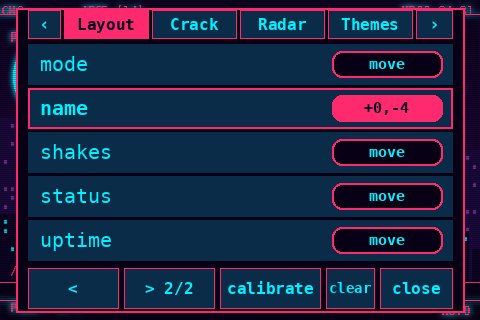
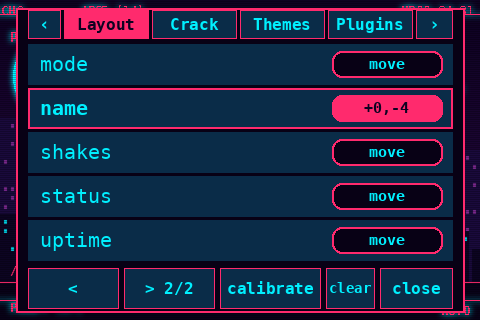
Remove the radar (2.9.0)
The network-ranking tab, on_wifi_update hook, api/radar and the editor's
Radar tab are gone, along with their tests and screenshot. It never
touched what got attacked, but wasn't worth the tab space.

Changed region(s): [[0.6875, 0.0625, 0.8438, 0.125], [0.5312, 0.0312, 0.6562, 0.0938]]

diff --git a/theme_manager.py b/theme_manager.py
@@ -749,33 +749,6 @@ def _crack_summary_text(summary):
     return "%d cracked of %d handshakes%s" % (summary["cracked"], summary["total"], junk)
 
 
-# ---------------------------------------------------------------- radar (display-only ranking, never touches attacks)
-RADAR_MAX = 60      # networks kept, best first
-
-
-def _ap_score(ap, captured):
-    """A rough 'worth attacking' score from what pwnagotchi already knows about an access point: a closer signal and
-    more clients mean more chances at a handshake; one already captured, or WPA3-only, counts against it. Display
-    only: nothing here changes what bettercap actually attacks."""
-    rssi = ap.get("rssi")
-    sig = max(0.0, min(1.0, (rssi + 90) / 60.0)) if isinstance(rssi, (int, float)) else 0.3
-    score = sig * 40 + min(len(ap.get("clients") or []), 5) * 12
-    if (ap.get("mac") or "").lower().replace(":", "") in captured:
-        score -= 60
-    if "WPA3" in (ap.get("encryption") or "").upper():
-        score -= 15
-    return round(score, 1)
-
-
-def _radar_summary_text(rows, age):
-    if not rows:
-        return "no networks seen yet"
-    if age is not None and age > 120:
-        return "%d networks (scan is %d minutes old)" % (len(rows), int(age // 60))
-    best = rows[0]
-    return "%d networks  ·  best: %s (%d clients)" % (len(rows), best["name"], best["clients"])
-
-
 def _power_state():
     """OK / LOW from the Pi's undervoltage flag."""
     for h in glob.glob("/sys/class/hwmon/hwmon*"):
@@ -1955,7 +1928,7 @@ CONFIRM_S = 4.0          # a power button must be tapped twice within this time
 GPS_TOKENS = ("gps", "lat", "lon", "sats")
 STATUS_LINES = ("CPU {temp}  load {cpu}  RAM {mem}", "IP {ip}", "GPS {gps}  {lat} {lon}",
                 "Up {uptime}  Power {power}  Bat {battery}", "Pwned {handshakes}  Cracked {cracked}  Session {session}")
-TAB_NAMES = ("themes", "plugins", "system", "awards", "layout", "crack", "radar")
+TAB_NAMES = ("themes", "plugins", "system", "awards", "layout", "crack")
 TAB_WINDOW = 4      # tabs shown at once before it needs '<'/'>' to see the rest
 TAB_ARROW_W = 36
 PROTECTED_PLUGINS = ('theme_manager',)   # never listed: switching it off would remove the menu itself
@@ -2035,8 +2008,8 @@ def to_screen(m, x, y):
 
 def menu_items(menu):
     tab = menu.get("tab", "themes")
-    return {"themes": menu["names"], "awards": menu["awards"], "layout": menu["layout"], "crack": menu["crack"],
-            "radar": menu["radar"]}.get(tab, menu["plugins"])
+    return {"themes": menu["names"], "awards": menu["awards"], "layout": menu["layout"],
+            "crack": menu["crack"]}.get(tab, menu["plugins"])
 
 
 def adjust_popup(menu):
@@ -2069,7 +2042,7 @@ def menu_hits(menu):
         return [((28, 268, 118, 308), ("refresh", None)), ((124, 268, 214, 308), ("dim", None)),
                 ((28, 166, 236, 200), ("mode", None)), ((242, 166, 452, 200), ("overheat", None)), ((28, 208, 152, 248), ("power", "restart")),
                 ((158, 208, 282, 248), ("power", "reboot")), ((288, 208, 412, 248), ("power", "shutdown"))] + common
-    act = {"themes": "pick", "awards": "award", "layout": "adjust", "crack": "crackrow", "radar": "radrow"}.get(tab, "toggle")
+    act = {"themes": "pick", "awards": "award", "layout": "adjust", "crack": "crackrow"}.get(tab, "toggle")
     hits = [((28, 44 + i * 44, 452, 44 + i * 44 + 40), (act, n))
             for i, n in enumerate(menu_items(menu)[page * MENU_ROWS:(page + 1) * MENU_ROWS])]
     if tab == "layout":
@@ -2196,21 +2169,6 @@ def draw_menu(img, menu, theme):
                 px0, px1 = x1 - 78, x1 - 10
                 d.rounded_rectangle((px0, y0 + 7, px1, y1 - 7), 10, fill=acc if done else panel, outline=acc, width=2)
                 d.text(((px0 + px1) // 2, (y0 + y1) // 2), label, font=_font(14, True), fill=bg if done else fg, anchor="mm")
-        elif act == "radrow":
-            info = menu["radar_info"][arg]
-            if info["kind"] == "summary":
-                d.text((x0 + 6, (y0 + y1) // 2), info["text"], font=_font(14, True), fill=fg, anchor="lm")
-            else:
-                got, hot = info["captured"], info["clients"] > 0
-                name = info["name"] if len(info["name"]) <= 18 else info["name"][:17] + "…"
-                sub = "ch%s  %sdBm  %s" % (info["channel"], info["rssi"], info["encryption"])
-                d.rectangle(rect, fill=line, outline=acc if hot and not got else line, width=2)
-                d.text((x0 + 12, y0 + 12), name, font=_font(16, hot and not got), fill=_mixc(fg, bg, 0.45) if got else fg, anchor="lm")
-                d.text((x0 + 12, y1 - 11), sub, font=_font(11), fill=_mixc(fg, bg, 0.4), anchor="lm")
-                px0, px1 = x1 - 62, x1 - 10
-                d.rounded_rectangle((px0, y0 + 9, px1, y1 - 9), 8, fill=acc if hot and not got else panel, outline=acc, width=2)
-                d.text(((px0 + px1) // 2, (y0 + y1) // 2), "%d STA" % info["clients"],
-                       font=_font(12, True), fill=bg if hot and not got else fg, anchor="mm")
         elif act == "resetall":
             ask = bool(menu.get("confirm")) and menu["confirm"][0] == "resetall"
             d.rectangle(rect, fill=acc if ask else line, outline=acc, width=1)
@@ -2434,7 +2392,7 @@ def draw_notice(img, text, theme):
 
 class ThemeManager(plugins.Plugin):
     __author__ = "theme_manager contributors"
-    __version__ = "2.8.0"
+    __version__ = "2.9.0"
     __license__ = "GPL3"
     __description__ = "Theme engine for the 3.5 inch display: colors, effects, animations, custom text, web GUI."
 
@@ -2464,9 +2422,6 @@ class ThemeManager(plugins.Plugin):
         self._settings = clean_settings({})
         self._settings_mtime = 0
         self._layout = {}
-        self._radar = []
-        self._radar_at = 0
-        self._radar_lock = threading.Lock()
         self._hot_since = 0
         self._shutdown_at = 0
         self._snooze_until = 0
@@ -2796,8 +2751,6 @@ class ThemeManager(plugins.Plugin):
                 self._fill_status(menu)
             elif menu.get("tab") == "crack" and menu["mode"] == "list":
                 self._sync_crack_menu(menu)
-            elif menu.get("tab") == "radar" and menu["mode"] == "list":
-                self._sync_radar_menu(menu)
             draw_menu(img, menu, self._theme)
         toast = self._toast
         if toast is not None:
@@ -2868,14 +2821,13 @@ class ThemeManager(plugins.Plugin):
             self._menu = {"mode": mode, "tab": tab, "page": 0, "tab_scroll": TAB_NAMES.index(tab),
                           "pages": {t: 0 for t in TAB_NAMES}, "confirm": None, "awards_on": self._settings["achievements"],
                           "awards": [a[0] for a in ACHIEVEMENTS] if self._settings["achievements"] else [], "layout": [], "layout_info": {},
-                          "crack": [], "crack_info": {}, "radar": [], "radar_info": {},
+                          "crack": [], "crack_info": {},
                           "award_info": {r["id"]: r for r in self.award_rows()}, "plugins": self._plugin_names(),
                           "on": set(plugins.loaded), "busy": set(), "failed": set(), "step": 0, "raw": [], "names": list(themes),
                           "colors": {n: t for n, t in themes.items()}, "active": self._active,
                           "until": now + (CALIB_TIMEOUT if mode == "calib" else MENU_TIMEOUT)}
         self._sync_layout_menu(self._menu)
         self._sync_crack_menu(self._menu)
-        self._sync_radar_menu(self._menu)
         self._wake.set()
         self._refresh_now()
 
@@ -2889,16 +2841,6 @@ class ThemeManager(plugins.Plugin):
             order.append(r["file"])
         menu["crack"] = order
         menu["crack_info"] = info
-
-    def _sync_radar_menu(self, menu):
-        rows, age = self.radar_rows()
-        info = {"__summary__": {"kind": "summary", "text": _radar_summary_text(rows, age)}}
-        order = ["__summary__"]
-        for r in rows:
-            info[r["mac"]] = dict(r, kind="row")
-            order.append(r["mac"])
-        menu["radar"] = order
-        menu["radar_info"] = info
 
     def _sync_layout_menu(self, menu):
         rows = self.layout_rows()
@@ -3310,15 +3252,6 @@ class ThemeManager(plugins.Plugin):
                             msgs = {"invalid": "invalid capture", "uploaded": "uploaded, not cracked yet",
                                     "queued": "waiting to upload", "unknown": "status unknown (wpa-sec plugin not active)"}
                             msg = msgs.get(info["status"], "?") + QUALITY_NOTE.get(info.get("quality"), "")
-                        self.toast(msg, seconds=4, now=now)
-                        self._refresh_now()
-                    return
-                elif act == "radrow":
-                    info = menu["radar_info"].get(arg)
-                    if info and info["kind"] == "row":
-                        msg = "%s: %s, %d clients, %d dBm" % (info["name"], info["encryption"], info["clients"], info["rssi"])
-                        if info["captured"]:
-                            msg += " (already have a handshake)"
                         self.toast(msg, seconds=4, now=now)
                         self._refresh_now()
                     return
@@ -3787,31 +3720,6 @@ class ThemeManager(plugins.Plugin):
         self._event_until = time.time() + HANDSHAKE_FLASH
         self._wake.set()
 
-    def on_wifi_update(self, agent, access_points):
-        """pwnagotchi calls this with every network it currently sees, each time it looks. We only ever read it, to
-        rank and display; nothing here feeds back into what gets attacked."""
-        try:
-            captured = {r["bssid"] for r in crack_rows() if r.get("bssid")}
-            rows = []
-            for ap in access_points:
-                mac = (ap.get("mac") or "").lower()
-                rows.append({"mac": mac, "name": ap.get("hostname") or "(hidden)", "channel": ap.get("channel", 0),
-                             "rssi": ap.get("rssi", -100), "clients": len(ap.get("clients") or []),
-                             "encryption": ap.get("encryption") or "?", "captured": mac.replace(":", "") in captured,
-                             "score": _ap_score(ap, captured)})
-            rows.sort(key=lambda r: -r["score"])
-            with self._radar_lock:
-                self._radar = rows[:RADAR_MAX]
-                self._radar_at = time.time()
-        except Exception as e:
-            logging.debug("[theme_manager] wifi update: %s", e)
-
-    def radar_rows(self):
-        """(rows, age in seconds since the last scan, or None before the first one)."""
-        with self._radar_lock:
-            rows, at = list(self._radar), self._radar_at
-        return rows, (time.time() - at if at else None)
-
     def on_unload(self, ui):
         self._running = False
         if self._ach_dirty:
@@ -3883,10 +3791,6 @@ class ThemeManager(plugins.Plugin):
         if path == "api/cracking":
             rows = crack_rows()
             return jsonify({"summary": crack_summary(rows), "rows": rows[:200], "wpa_sec": _wpa_db_status() is not None})
-
-        if path == "api/radar":
-            rows, age = self.radar_rows()
-            return jsonify({"rows": rows, "age": age})
 
         if path == "api/backup":
             self._stat("backups", add=1)
@@ -4122,7 +4026,7 @@ const KINDS=SCENE_KINDS_JS;
 const ANIM=['pulse','rainbow','glitch','rain','stars','noise'];
 const MOODS=['look_r','sleep','awake','bored','intense','cool','happy','grateful','excited','motivated','demotivated','smart','lonely','sad','angry','friend','broken','debug','upload','handshake'];
 const HOLDERS=['{name}','{time}','{date}','{cpu}','{temp}','{mem}','{uptime}','{ip}','{mode}','{gps}','{lat}','{lon}','{sats}','{handshakes}','{cracked}','{session}','{power}','{battery}'];
-const TABS=['Colors','Effects','Text','Elements','Moods','Faces','JSON','Layout','Awards','Cracking','Radar','Settings'];
+const TABS=['Colors','Effects','Text','Elements','Moods','Faces','JSON','Layout','Awards','Cracking','Settings'];
 let S={active:'',themes:{}},sel='',cur={},info={elements:[],entities:[],packs:{}},tab='Colors',mood='sad',pvMood=null,busy=false,dirty=false,pvErr=false,timer=null;
 const say=t=>$('msg').textContent=t||'';
 /* After the plugin restarts (or the browser loses its session) the page's token is stale: fetch a fresh one and retry once. */
@@ -4337,19 +4241,6 @@ function panelCracking(){const p=E('div'),s=crack.summary;
    E('span',{class:'inh',style:'flex:1'},(r.status==='cracked'?r.password:(r.bssid||''))+'  · '+(QUAL[r.quality]||r.quality)),
    E('span',{style:'padding:2px 10px;border-radius:10px;font-size:11px;background:'+(done?'var(--acc)':'transparent')+';border:1px solid var(--acc);color:'+(done?'var(--bg)':'var(--text)')},label)))}
  return p}
-let radar={rows:[],age:null};
-async function loadRadar(){try{radar=await(await fetch(base+'/api/radar')).json()}catch(e){}}
-function panelRadar(){const p=E('div');
- p.append(E('p',{style:'color:var(--dim);margin:0 0 10px'},'Networks pwnagotchi currently sees, ranked by signal and client count (a rough guess at which ones are worth the time). '+
-  'Display only: nothing here changes what actually gets attacked. Also on the device: touch menu, Radar tab.'+
-  (radar.age==null?' No scan yet.':radar.age>120?' Last scan '+Math.round(radar.age/60)+' min ago.':'')));
- if(!radar.rows.length){p.append(E('p',{style:'color:var(--dim)'},'No networks seen yet.'));return p}
- for(const r of radar.rows){
-  p.append(E('div',{class:'erow'+(r.captured?'':' set'),style:r.captured?'opacity:.55':''},
-   E('span',{class:'ename',style:'width:170px'},r.name),
-   E('span',{class:'inh',style:'flex:1'},'ch'+r.channel+'  '+r.rssi+'dBm  '+r.encryption+(r.captured?'  (have a handshake)':'')),
-   E('span',{style:'padding:2px 10px;border-radius:10px;font-size:11px;border:1px solid var(--acc);background:'+(r.clients&&!r.captured?'var(--acc)':'transparent')+';color:'+(r.clients&&!r.captured?'var(--bg)':'var(--text)')},r.clients+' STA')))}
- return p}
 let cfg={settings:{},display:{dim:1,night:null,idle:null},limits:{}};
 async function loadSettings(){try{cfg=await(await fetch(base+'/api/settings')).json()}catch(e){}}
 async function saveSettings(){const j=await(await post('settings',{settings:cfg.settings,display:cfg.display})).json();
@@ -4372,9 +4263,9 @@ function panelSettings(){const p=E('div'),s=cfg.settings,d=cfg.display;
   idleOn?[field('after (minutes)',num(d.idle.minutes,v=>d.idle.minutes=v,1,240)),slider('dim to',[5,100,5],Math.round(d.idle.dim*100),v=>{d.idle.dim=v/100})]:null));
  p.append(E('div',{class:'row'},E('button',{id:'setsave',onclick:saveSettings},'Save settings')));
  return p}
-const PANELS={Colors:panelColors,Effects:panelEffects,Text:panelText,Elements:panelElements,Moods:panelMoods,Faces:panelFaces,JSON:panelJson,Layout:panelLayout,Awards:panelAwards,Cracking:panelCracking,Radar:panelRadar,Settings:panelSettings};
+const PANELS={Colors:panelColors,Effects:panelEffects,Text:panelText,Elements:panelElements,Moods:panelMoods,Faces:panelFaces,JSON:panelJson,Layout:panelLayout,Awards:panelAwards,Cracking:panelCracking,Settings:panelSettings};
 function panel(){const p=$('panel');p.innerHTML='';p.append(PANELS[tab]());
- const t=$('tabs');t.innerHTML='';for(const n of TABS)t.append(E('button',{class:n===tab?'on':'',onclick:async()=>{tab=n;pickKey=null;$('pick').innerHTML='';$('pick').className='';pvMood=n==='Moods'?mood:null;if(n==='Elements'||n==='Moods'){try{info.entities=await(await fetch(base+'/api/entities')).json()}catch(e){}}if(n==='Layout')await loadLayout();if(n==='Awards')await loadAwards();if(n==='Cracking')await loadCracking();if(n==='Radar')await loadRadar();if(n==='Settings')await loadSettings();panel();overlay();schedule()}},n))}
+ const t=$('tabs');t.innerHTML='';for(const n of TABS)t.append(E('button',{class:n===tab?'on':'',onclick:async()=>{tab=n;pickKey=null;$('pick').innerHTML='';$('pick').className='';pvMood=n==='Moods'?mood:null;if(n==='Elements'||n==='Moods'){try{info.entities=await(await fetch(base+'/api/entities')).json()}catch(e){}}if(n==='Layout')await loadLayout();if(n==='Awards')await loadAwards();if(n==='Cracking')await loadCracking();if(n==='Settings')await loadSettings();panel();overlay();schedule()}},n))}
 
 /* ---- drag text lines on the preview ---- */
 const est=t=>(t||'').replace(/\{time\}/g,'00:00:00').replace(/\{date\}/g,'0000-00-00').replace(/\{\w+\}/g,'0000').length;

diff --git a/tools/make_screenshots.py b/tools/make_screenshots.py
@@ -82,19 +82,9 @@ crack_rows = [
 crack_info = {"__summary__": {"kind": "summary", "text": T._crack_summary_text(T.crack_summary(crack_rows))}}
 crack_info.update({r["file"]: dict(r, kind="row") for r in crack_rows})
 menu.update(crack=["__summary__"] + [r["file"] for r in crack_rows], crack_info=crack_info)
-# a radar with made-up nearby networks (never the real ones)
-radar_rows = [
-    {"mac": "02:00:00:00:00:01", "name": "CoffeeShop", "channel": 6, "rssi": -45, "clients": 3, "encryption": "WPA2", "captured": False},
-    {"mac": "02:00:00:00:00:02", "name": "SecureNet", "channel": 1, "rssi": -50, "clients": 2, "encryption": "WPA3", "captured": False},
-    {"mac": "02:00:00:00:00:03", "name": "HomeNet", "channel": 6, "rssi": -55, "clients": 4, "encryption": "WPA2", "captured": True},
-    {"mac": "02:00:00:00:00:04", "name": "(hidden)", "channel": 11, "rssi": -80, "clients": 0, "encryption": "WPA2", "captured": False},
-]
-radar_info = {"__summary__": {"kind": "summary", "text": T._radar_summary_text(radar_rows, 2.0)}}
-radar_info.update({r["mac"]: dict(r, kind="row") for r in radar_rows})
-menu.update(radar=["__summary__"] + [r["mac"] for r in radar_rows], radar_info=radar_info)
 for name, extra in (("menu-themes.png", {"tab": "themes", "page": 1}), ("menu-plugins.png", {"tab": "plugins", "busy": {"bt-tether"}}),
                     ("menu-system.png", {"tab": "system", "overheat": True}), ("menu-awards.png", {"tab": "awards"}),
-                    ("menu-layout.png", {"tab": "layout", "page": 1}), ("menu-crack.png", {"tab": "crack"}), ("menu-radar.png", {"tab": "radar"}),
+                    ("menu-layout.png", {"tab": "layout", "page": 1}), ("menu-crack.png", {"tab": "crack"}),
                     ("menu-adjust.png", {"mode": "adjust", "adjust": "face", "offset": (12, 6), "box": (25, 52, 252, 122), "step_px": 5})):
     shown = dict(menu, **extra)
     shown["tab_scroll"] = T.TAB_NAMES.index(shown["tab"]) if shown["tab"] in T.TAB_NAMES else 0

diff --git a/tests/e2e_editor.py b/tests/e2e_editor.py
@@ -240,11 +240,6 @@ with sync_playwright() as p:
     check("the Cracking tab shows the summary cards", page.locator(".statcard").count() == 6)
     check("...and matches the API's counts", page.locator(".statcard div").first.inner_text() == str(cracking0["summary"]["cracked"]))
 
-    tab("Radar")
-    page.wait_for_timeout(300)
-    check("the Radar tab loads with no browser error (empty or listing networks)",
-          page.locator("p:has-text('Networks pwnagotchi')").count() == 1)
-
     settings0 = requests.get(URL + "api/settings").json()
     tab("Settings")
     page.wait_for_selector("#setsave")

diff --git a/README.md b/README.md
@@ -35,7 +35,6 @@ with pwnagotchi's mood. Themes are small JSON files you can edit in a web editor
 - **Face packs:** replace the text face with PNG or GIF images per mood, in color or tinted by the theme
 - **Web editor** with live preview: sliders, gradient picker, drag-to-place text, click a part of the preview to recolor it, import/export
 - **Touch menu:** double tap the screen to switch themes (or just swipe sideways), enable/disable pwnagotchi plugins on the fly, or see system status and restart/reboot/shut down
-- **Radar:** the networks pwnagotchi currently sees, ranked by signal and client count (display only, never touches attacks)
 - **Cracking dashboard:** every captured handshake with its upload/crack status and a local handshake-quality guess (full/PMKID/partial/junk), on the screen and in the editor
 - **Move anything on the screen:** tap an element in the touch menu and nudge it with small `+` and `-` buttons (or do it in the web editor)
 - **Achievements:** unlock them for handshakes, uptime, themes tried and more, on the screen and in the editor
@@ -75,9 +74,6 @@ And more, each with its own scenery: a Star Trek console, the seasons, landscape
 <img src="docs/images/menu-awards.png" width="32%" alt="Awards tab">
 <img src="docs/images/menu-layout.png" width="32%" alt="Layout tab">
 <img src="docs/images/menu-crack.png" width="32%" alt="Crack tab, a cracking dashboard">
-</p>
-<p>
-<img src="docs/images/menu-radar.png" width="32%" alt="Radar tab, ranking nearby networks">
 </p>
 
 **Web editor** with a live preview: drag text lines on the preview, or click a part of the screen to recolor it.
@@ -129,8 +125,8 @@ enabled = true
 
 **Web editor:** open `http://<pi-address>:8080/plugins/theme_manager/`. Pick a theme, change colors and effects, drag text
 lines on the preview, click a part of the screen to recolor it, then **Apply to screen**. Themes you save appear in the list.
-The **Layout**, **Awards**, **Cracking**, **Radar** and **Settings** tabs (overheating auto-off, achievements,
-brightness and night mode) are about the device rather than the theme.
+The **Layout**, **Awards**, **Cracking** and **Settings** tabs (overheating auto-off, achievements, brightness and
+night mode) are about the device rather than the theme.
 
 **Command line** (use pwnagotchi's Python):
 
@@ -158,7 +154,6 @@ $P cracking              # handshake upload/crack counts as JSON (or: cracking l
 | **Awards** | the achievements with your progress; tap one to see what it asks for |
 | **Layout** | every element on the screen; tap one to move it with `X -` `X +` `Y -` `Y +` (1, 5 or 10 pixels per tap), `reset` and `done`; `clear` puts everything back |
 | **Crack** | every captured handshake with a status pill (`PWND`/`WAIT`/`NEW`/`BAD`/`?`); tap one for the password or what it's waiting on |
-| **Radar** | networks pwnagotchi currently sees, ranked by a rough "worth attacking" score; tap one for its channel, signal and client count |
 
 Swipe sideways on the bare screen to change theme. `close`, a tap outside the menu, or 20 seconds of nothing closes it. It costs nothing while idle: one thread sleeps until
 the screen is touched.
@@ -214,7 +209,7 @@ python tests/run_all.py            # or run any tests/test_*.py on its own
 ```
 
 They cover theme validation and rendering (including a fuzz test), per-element colors, moods, face packs, the touch
-menu and calibration, plugin switching, the System tab, achievements, the layout mover, the cracking dashboard, the radar, the web API, the placeholders, the install script, and a scan that keeps
+menu and calibration, plugin switching, the System tab, achievements, the layout mover, the cracking dashboard, the web API, the placeholders, the install script, and a scan that keeps
 personal data out of the repository. The tools in [`tools/`](tools) regenerate the screenshots and the demo GIF from
 made-up data. GitHub Actions runs the tests on every push.
 
@@ -225,7 +220,7 @@ screenshots or logs that show your device name, network names or addresses.
 
 ## Legal
 
-pwnagotchi itself, and the `wpa-sec`, cracking dashboard and radar features this plugin adds a view onto, are for
+pwnagotchi itself, and the `wpa-sec` and cracking dashboard features this plugin adds a view onto, are for
 **authorized security testing, research and education only**. Only use them on networks and devices you own or have
 explicit permission to test. You are responsible for complying with all applicable laws; the authors and contributors
 take no responsibility for misuse. The plugin shows this once, on its first run, on the device's own screen:

diff --git a/docs/THEMES.md b/docs/THEMES.md
@@ -312,11 +312,6 @@ Tap a row to see what it asks for.
 
 **Layout** lists everything on the screen so you can move it (see "Moving things on the screen").
 
-**Radar** ranks the networks pwnagotchi currently sees by signal, client count and encryption (a network already
-cracked, or WPA3-only, ranks lower), so you can tell at a glance what is worth waiting for. Tap one for its channel,
-signal and client count. It only reads what pwnagotchi already collects (the same data behind the `aps`/`sta` counters)
-and never changes what gets attacked; the web editor has the same list in its Radar tab.
-
 **Crack** is a cracking dashboard: a summary line (cracked / queued / invalid, from the `wpa-sec` plugin if it is
 installed and enabled) followed by every captured handshake, newest first, each with a colored status pill: `PWND`
 (cracked, tap it to see the password), `WAIT` (uploaded, not cracked yet), `NEW` (waiting to upload), `BAD` (wpa-sec

diff --git a/CHANGELOG.md b/CHANGELOG.md
@@ -1,5 +1,10 @@
 # Changelog
 
+## 2.9.0
+
+**Removed the Radar.** The network-ranking tab and its API/editor tab are gone. It was harmless (display-only,
+never touched what got attacked) but not worth the screen space it took from other tabs.
+
 ## 2.8.0
 
 **Handshake quality.** Each capture in the Cracking dashboard now also gets a local quality guess, without waiting
